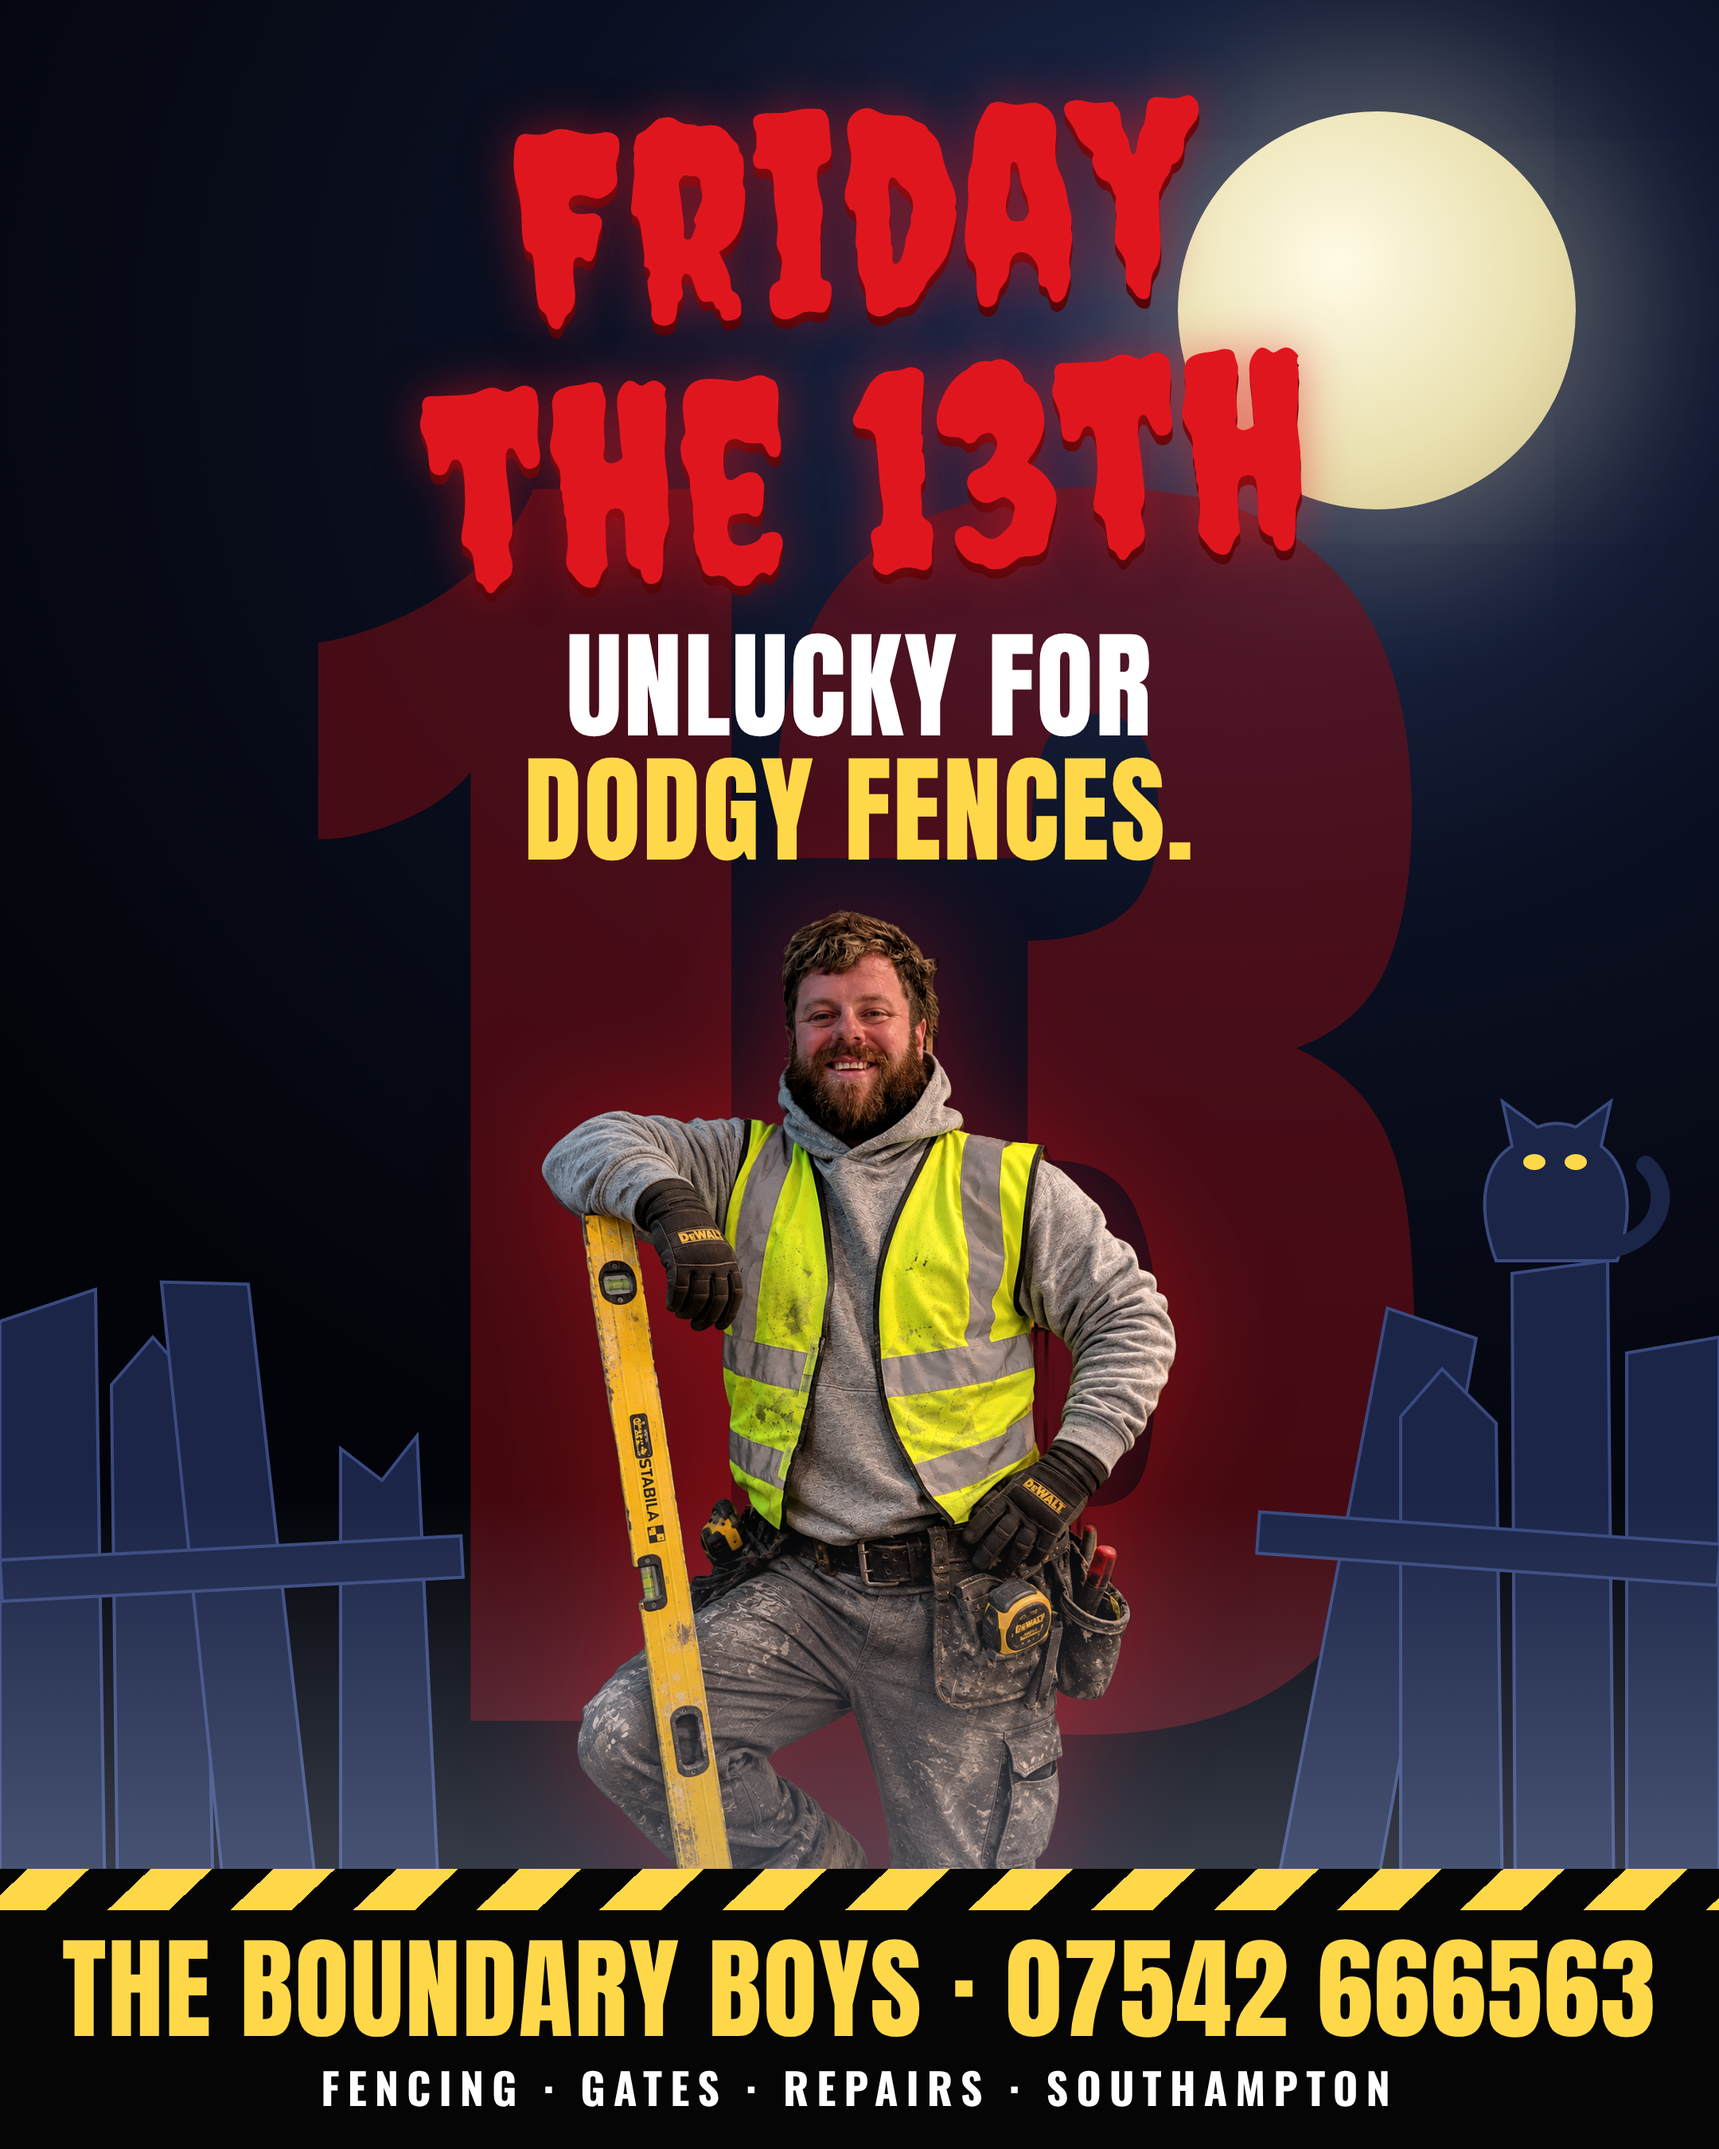
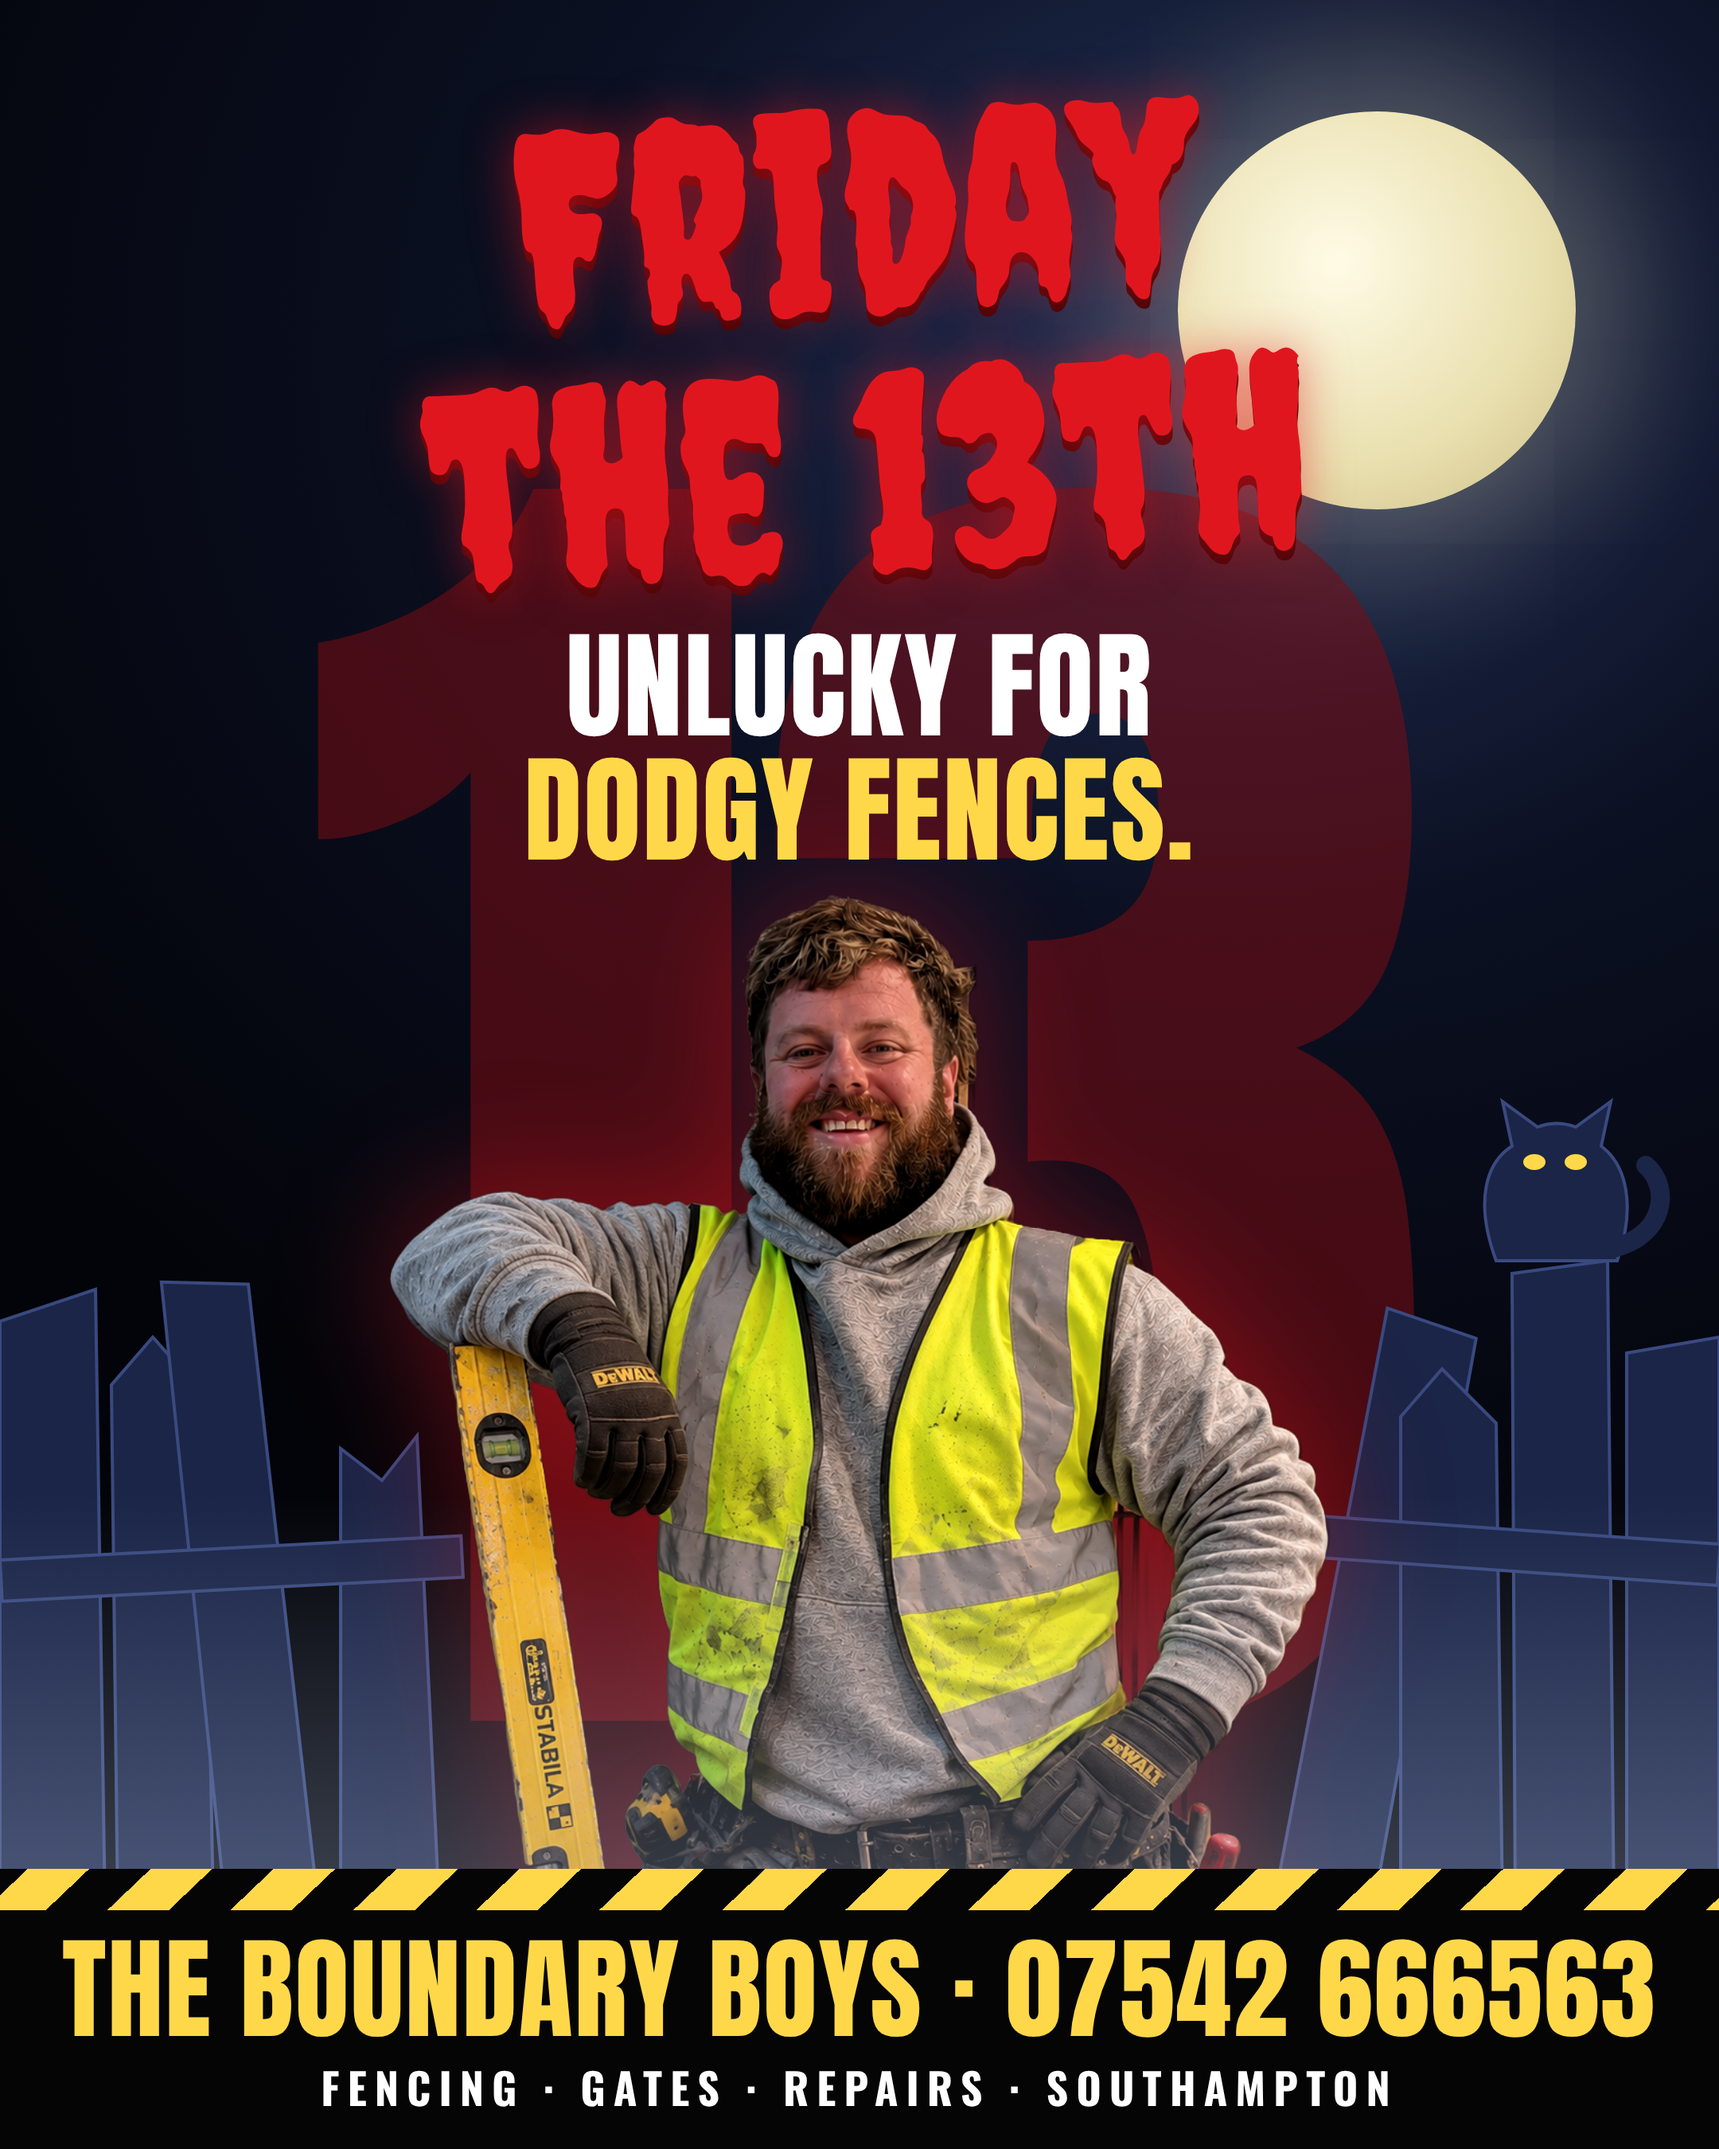
Friday the 13th poster: crop the photo at the waist and enlarge it
Claude-Session: https://claude.ai/code/session_01Rq6TRjXg8vNgUrSz3Z5WjU

Changed region(s): [[0.2171, 0.4044, 0.8065, 0.8711]]

diff --git a/marketing/graphics/hero.html b/marketing/graphics/hero.html
@@ -10,7 +10,7 @@
 .f13 .title { position:absolute; left:0; right:0; top:50px; z-index:6; font:400 172px/0.95 Creepster; color:#e0161f; text-shadow:0 0 30px rgba(224,22,31,.55), 0 6px 0 #4a0508; transform:rotate(-3deg); }
 .f13 .punch { position:absolute; left:0; right:0; top:392px; z-index:6; font:400 74px/1.05 Anton; text-transform:uppercase; letter-spacing:1px; }
 .f13 .punch span { color:var(--y); }
-.f13 .me { position:absolute; left:50%; bottom:150px; height:630px; transform:translateX(-50%); z-index:4; filter:saturate(.85) contrast(1.08) drop-shadow(0 0 40px rgba(224,22,31,.45)); }
+.f13 .me { position:absolute; left:50%; top:560px; height:930px; transform:translateX(-50%); z-index:4; filter:saturate(.85) contrast(1.08) drop-shadow(0 0 40px rgba(224,22,31,.45)); }
 .f13 .sil { position:absolute; left:0; right:0; bottom:150px; z-index:3; }
 .f13 .fog { position:absolute; left:0; right:0; bottom:150px; height:260px; z-index:5; background:linear-gradient(transparent,rgba(170,185,215,.34)); }
 .f13 .bar { position:absolute; left:0; right:0; bottom:0; height:176px; background:#050505; z-index:8; border-top:26px solid transparent;
